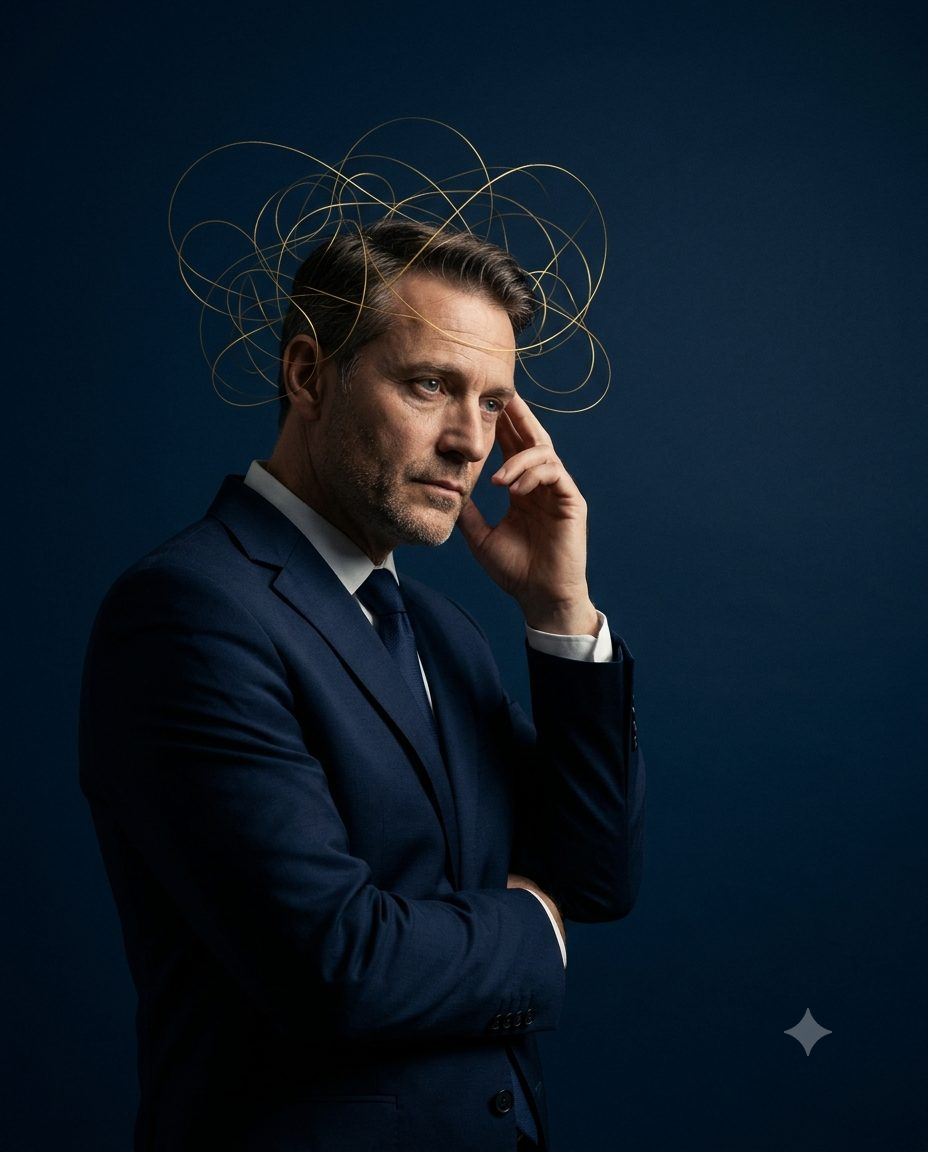
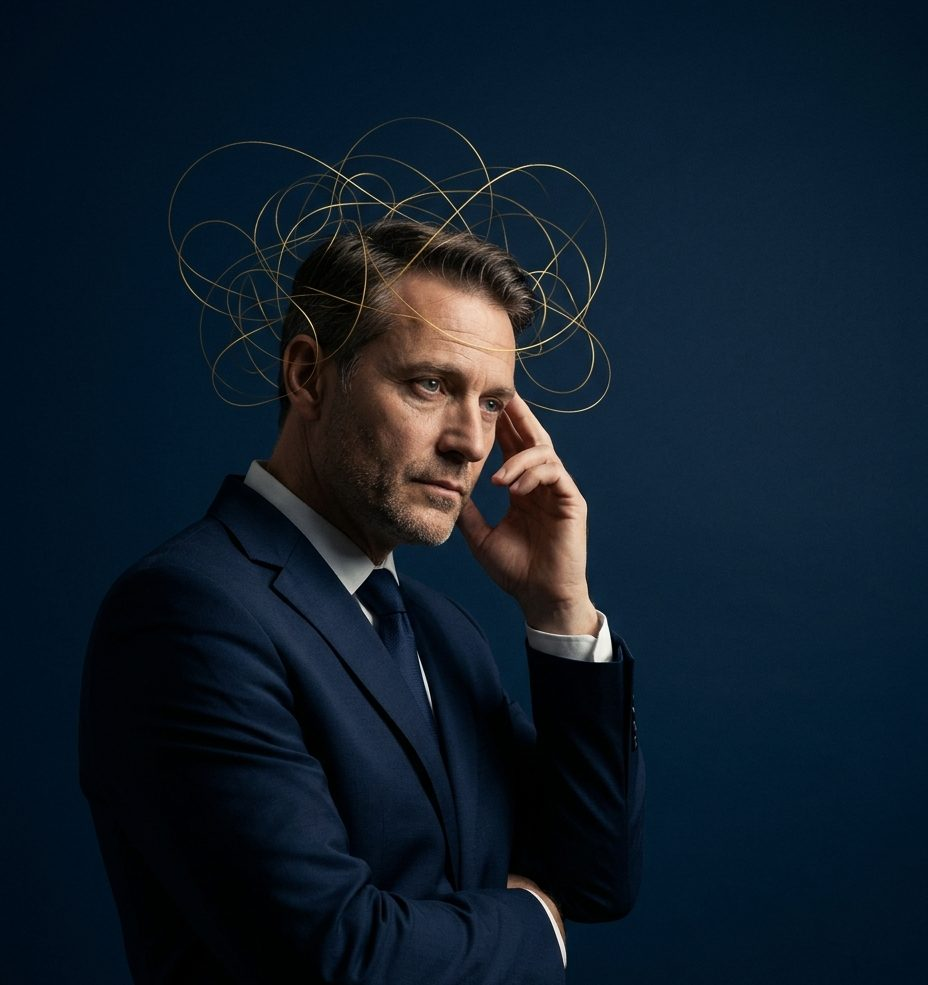
fix(luchy-ghisays): crop magnet image watermark and fill column with caption
Claude-Session: https://claude.ai/code/session_01RYNK8oaFZwpixcWC3vBg8P

diff --git a/luchy-ghisays/app/globals.css b/luchy-ghisays/app/globals.css
@@ -269,14 +269,32 @@ header .logo {
 }
 .magnet-media {
   margin-bottom: 30px;
+}
+.magnet-photo {
   border-radius: 12px;
   overflow: hidden;
   box-shadow: 0 0 0 1px rgba(212, 175, 55, 0.4), 0 18px 44px rgba(0, 8, 20, 0.45);
 }
-.magnet-media img {
+.magnet-photo img {
   width: 100%;
   height: auto;
   display: block;
+}
+.magnet-caption {
+  margin-top: 22px;
+  padding-top: 20px;
+  border-top: 1px solid rgba(212, 175, 55, 0.3);
+}
+.magnet-caption .cap-title {
+  font-weight: 800;
+  font-size: 20px;
+  line-height: 1.2;
+  color: #fff;
+}
+.magnet-caption .cap-text {
+  margin-top: 8px;
+  font-size: 14px;
+  color: var(--gold);
 }
 .magnet .eyebrow {
   font-weight: 700;
@@ -749,7 +767,7 @@ footer .disclaimer {
   }
   .magnet-inner {
     display: flex;
-    align-items: flex-start;
+    align-items: stretch;
     gap: 56px;
     max-width: 1040px;
     margin: 0 auto;
@@ -757,8 +775,11 @@ footer .disclaimer {
   .magnet-media {
     flex: 0 0 360px;
     margin-bottom: 0;
-    position: sticky;
-    top: 40px;
+    display: flex;
+    flex-direction: column;
+  }
+  .magnet-caption {
+    margin-top: auto;
   }
   .magnet-content {
     flex: 1;

diff --git a/luchy-ghisays/components/Magnet.tsx b/luchy-ghisays/components/Magnet.tsx
@@ -5,11 +5,17 @@ export default function Magnet() {
     <section className="magnet">
       <div className="magnet-inner">
         <div className="magnet-media">
-          {/* eslint-disable-next-line @next/next/no-img-element */}
-          <img
-            src={site.magnetImage}
-            alt="Ejecutivo abrumado por una maraña de pensamientos en automático"
-          />
+          <div className="magnet-photo">
+            {/* eslint-disable-next-line @next/next/no-img-element */}
+            <img
+              src={site.magnetImage}
+              alt="Ejecutivo abrumado por una maraña de pensamientos en automático"
+            />
+          </div>
+          <div className="magnet-caption">
+            <p className="cap-title">{site.magnetCaption.title}</p>
+            <p className="cap-text">{site.magnetCaption.text}</p>
+          </div>
         </div>
         <div className="magnet-content">
           <div className="eyebrow">PDF de diagnóstico</div>

diff --git a/luchy-ghisays/lib/site.ts b/luchy-ghisays/lib/site.ts
@@ -6,8 +6,12 @@ export const site = {
     "Descubre las 10 señales de que estás en automático. Lista de diagnóstico para ejecutivos. PDF gratis, acceso inmediato.",
   // Google Analytics 4
   gaId: "G-JJ6E0H1JW2",
-  // Imagen de la sección lead magnet ("Las 10 señales…").
+  // Imagen y pie de la sección lead magnet ("Las 10 señales…").
   magnetImage: "/magnet-a.jpg",
+  magnetCaption: {
+    title: "¿Cuántas reconoces en ti?",
+    text: "Si marcas tres o más, no es casualidad.",
+  },
   // Endpoint del formulario (Google Apps Script Web App publicado, termina en /exec).
   leadFormEndpoint:
     "https://script.google.com/macros/s/AKfycbwBxMcPO2AJ3yIAdMv8vaPCFUn9oJ-V3vfkm6AgvSjOQFRiRroqR38-zTyEiwvCu8vw/exec",
